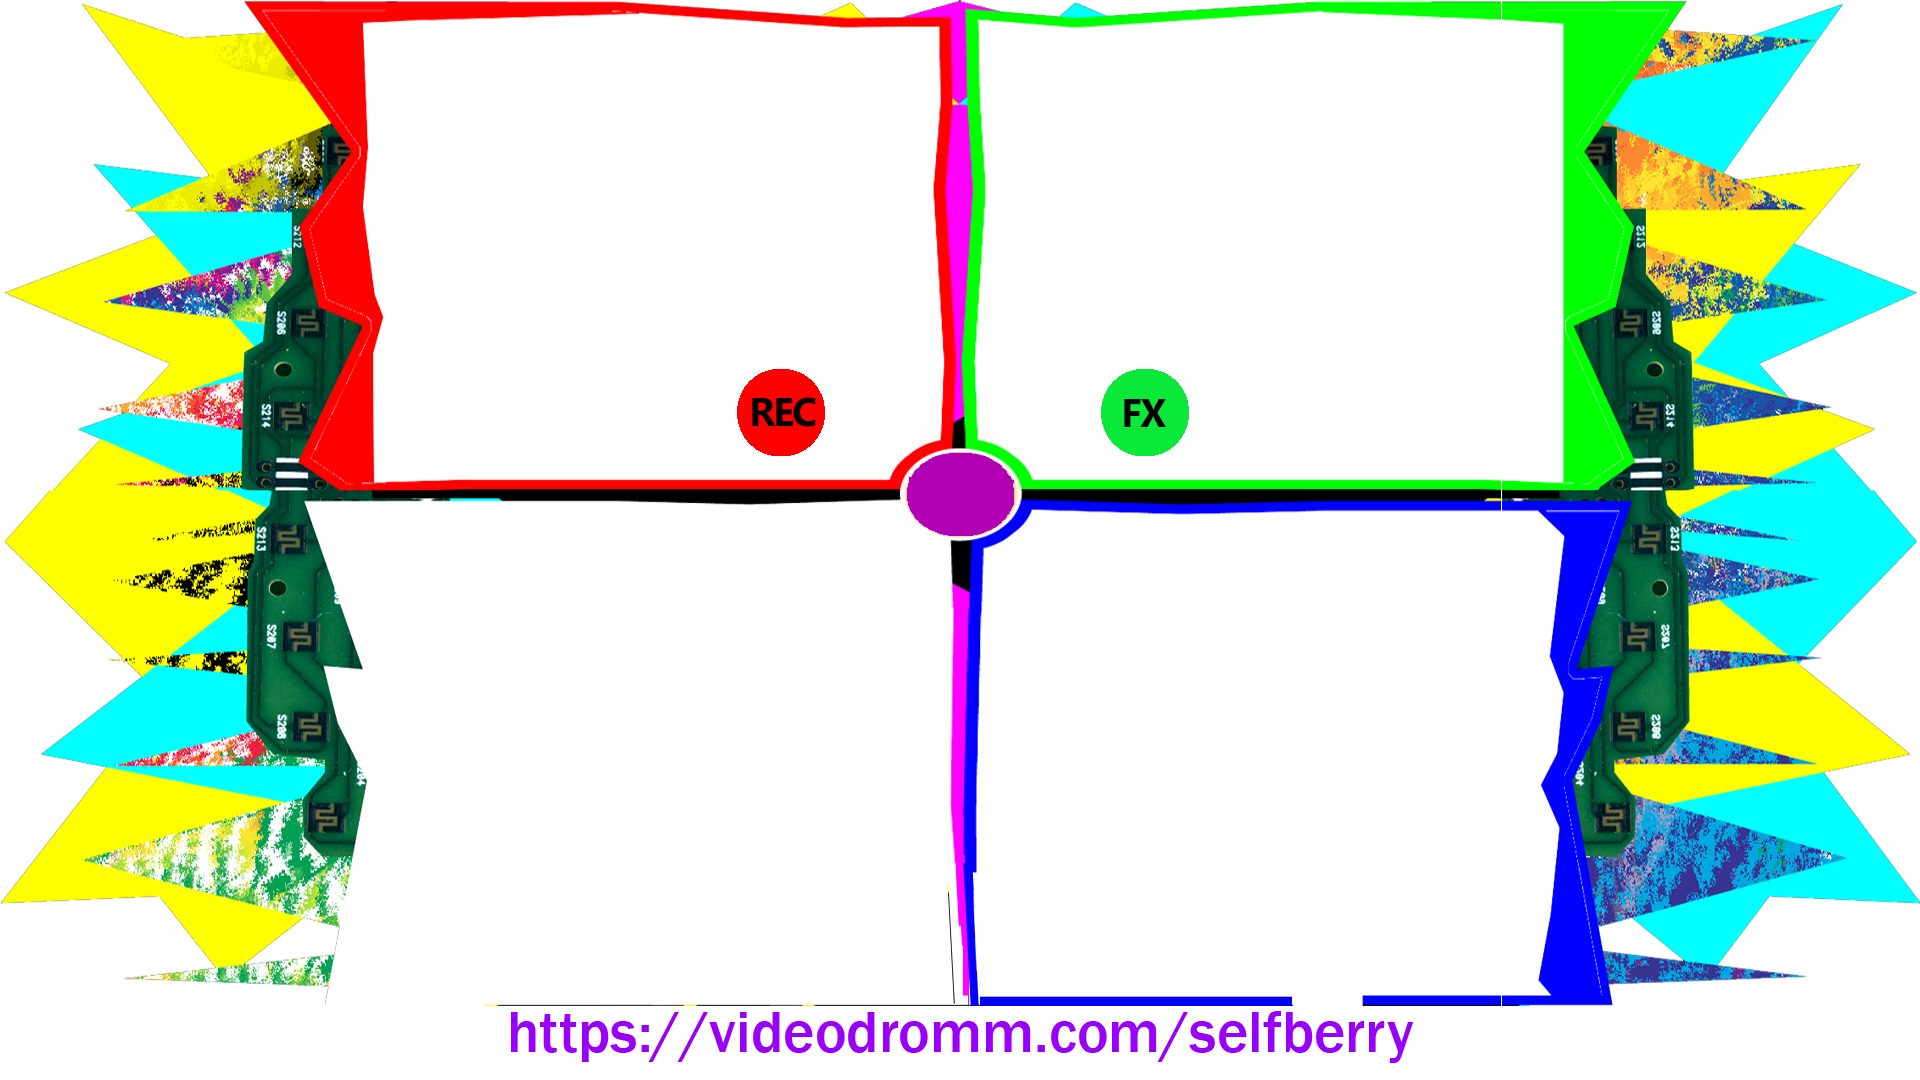
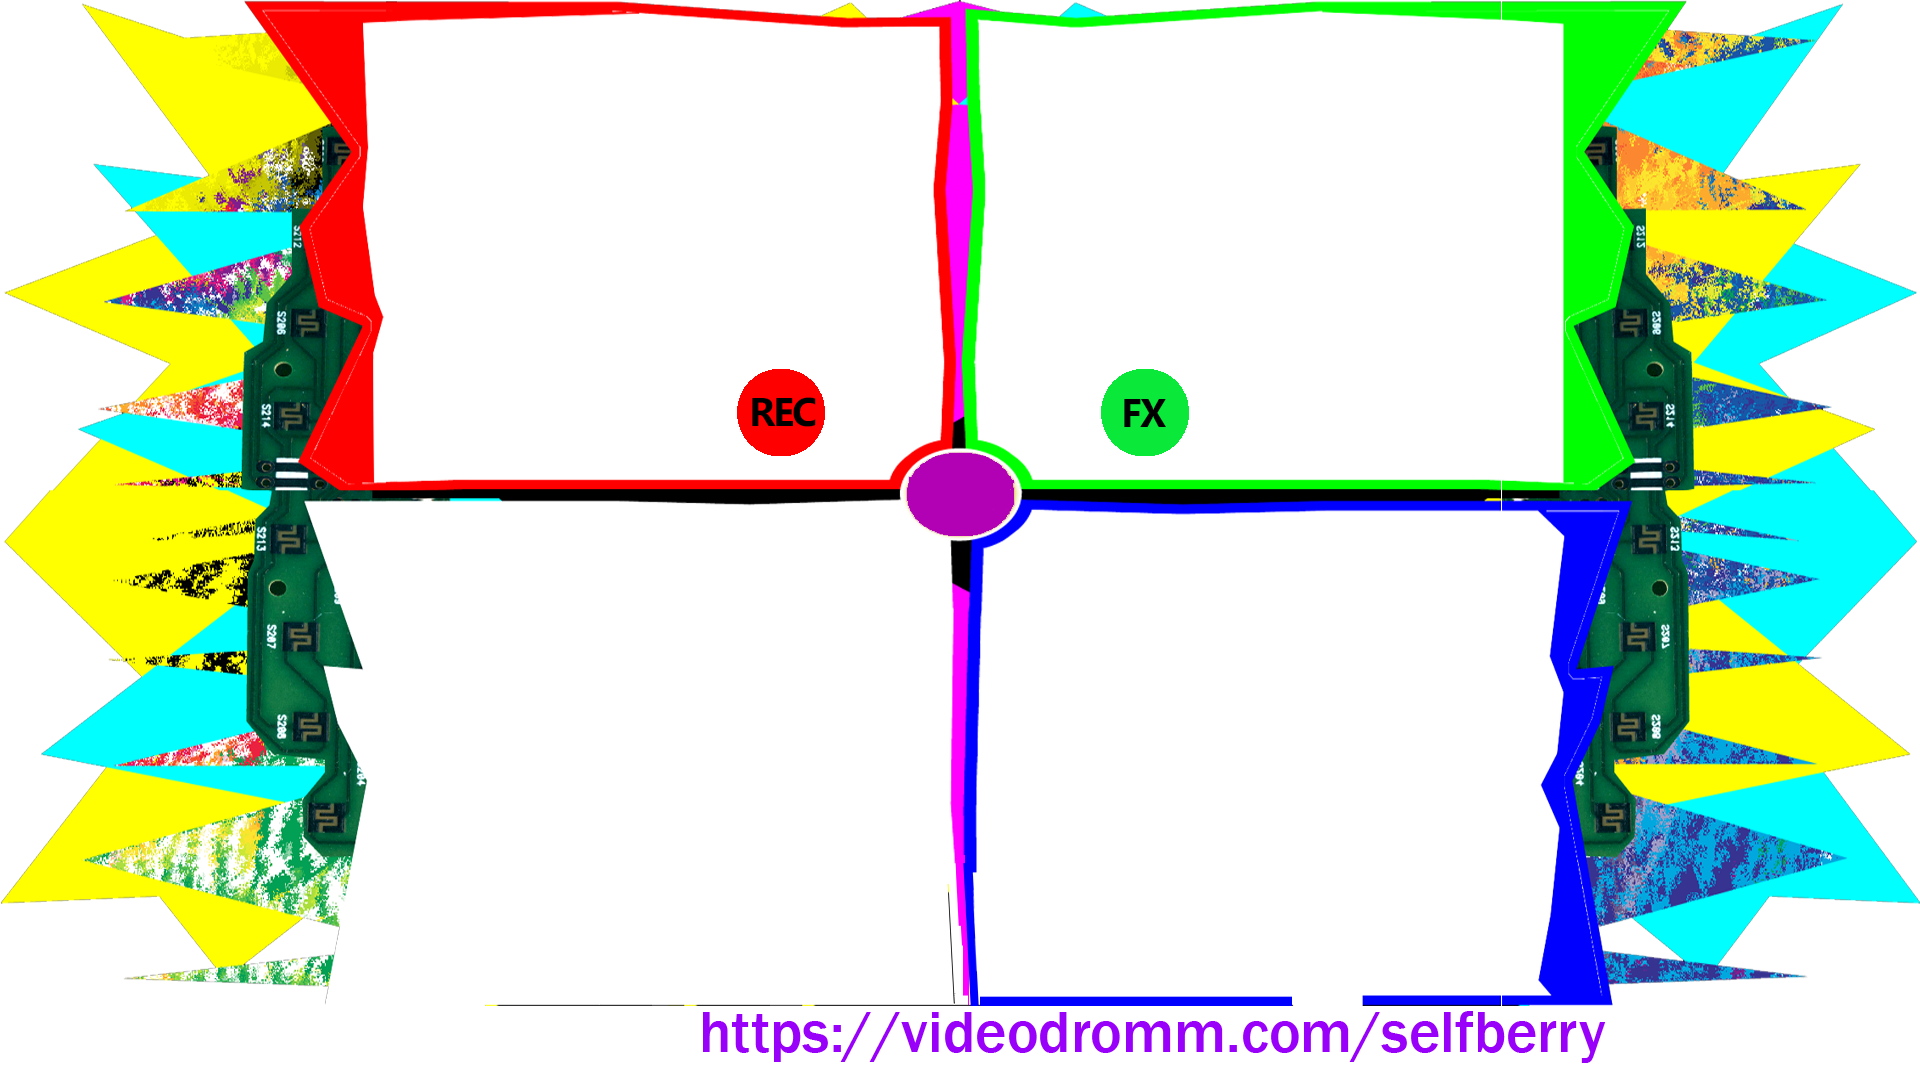
ui

Changed region(s): [[0.25, 0.9167, 0.8438, 0.9778]]

diff --git a/src/ofApp.cpp b/src/ofApp.cpp
@@ -307,7 +307,7 @@ void ofApp::draw() {
 		}
 	}
 	if (doDrawInfo) {
-		ofDrawBitmapStringHighlight(info.str(), 5, 1016, ofColor::black, ofColor::yellow);
+		ofDrawBitmapStringHighlight(info.str(), 25, 1016, ofColor::black, ofColor::yellow);
 	}
 }
 /*void ofApp::fetch(const std::string& data, size_t size, size_t margin)
@@ -352,8 +352,8 @@ void ofApp::ftpTransfer() {
 
 			for (vector<string>::reverse_iterator gifFile = gifValides.rbegin(); gifFile != gifValides.rend(); ++gifFile) {
 				html << "<img src=\"gif/" << *gifFile << "\" /><br />";
-				html << "<a href=\"http://www.facebook.com/share.php?u=http://videodromm.com/selfberry/" << *gifFile << ".html\" target=\"_blank\"><button class=\"btn btn-social btn-facebook\"><span class =\"icon icon-facebook\"></span>Partager sur Facebook</button></a>";
-				html << "<a href=\"https://twitter.com/intent/tweet?text=http://videodromm.com/selfberry/" << *gifFile << ".html\">Twitter</a><br />";
+				html << "<a href=\"http://www.facebook.com/share.php?u=http://videodromm.com/selfberry/" << *gifFile << ".html\" target=\"_blank\"><button class=\"btn btn-social btn-facebook\"><span class =\"icon icon-facebook\"></span>Facebook</button></a>";
+				html << "<a href=\"https://twitter.com/intent/tweet?text=http://videodromm.com/selfberry/" << *gifFile << ".html\ target=\"_blank\"><button>Twitter</button></a><br />";
 			}
 			html << "</body></html>";
 			html.close();
@@ -364,8 +364,8 @@ void ofApp::ftpTransfer() {
 				ofFile html2(htmlFileName2, ofFile::WriteOnly);
 				html2 << "<!DOCTYPE html><html><head><title>Selfberry</title><style>body{background-color: #111111;}</style></head><body>";
 				html2 << "<img src=\"gif/" << gifFileName << "\" /><br />";
-				html2 << "<a href = \"http://www.facebook.com/share.php?u=http://videodromm.com/selfberry/" << htmlFileName2 << "\" target=\"_blank\"><button class=\"btn btn-social btn-facebook\"><span class =\"icon icon-facebook\"></span>Partager sur Facebook</button></a>";
-				html2 << "<a href=\"https://twitter.com/intent/tweet?text=http://videodromm.com/selfberry/" << htmlFileName2 << "\">Twitter</a><br />";
+				html2 << "<a href = \"http://www.facebook.com/share.php?u=http://videodromm.com/selfberry/" << htmlFileName2 << "\" target=\"_blank\"><button class=\"btn btn-social btn-facebook\"><span class =\"icon icon-facebook\"></span>Facebook</button></a>";
+				html2 << "<a href=\"https://twitter.com/intent/tweet?text=http://videodromm.com/selfberry/" << htmlFileName2 << "\" target=\"_blank\"><button>Twitter</button></a><br />";
 				html2 << "</body></html>";
 				html2.close();
 				if (ftpClient.send(htmlFileName2, ofToDataPath(""), "/") > 0) {
